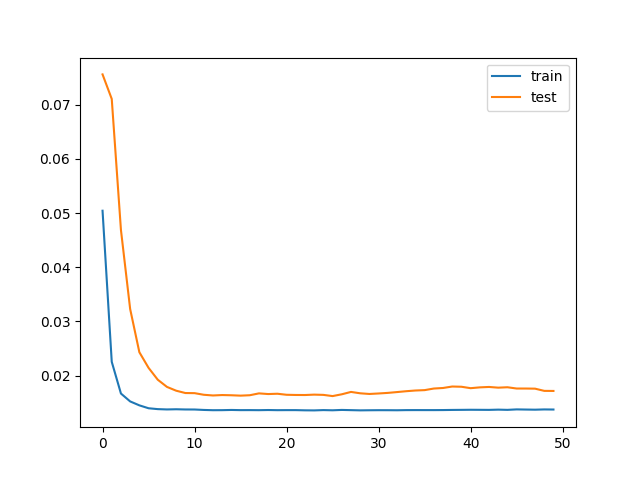
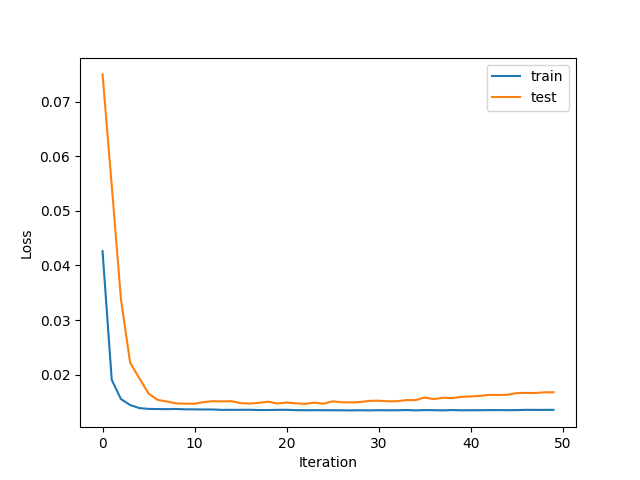
result

diff --git a/code/P3_LSTM_model.py b/code/P3_LSTM_model.py
@@ -9,7 +9,7 @@ from P2_get_data import get_data
 
 epochs = 150
 batch_size = 100
-time_steps = 2
+time_steps = 3
 
 
 def LSTM_train(x_train, y_train, x_test, y_test):
@@ -24,6 +24,8 @@ def LSTM_train(x_train, y_train, x_test, y_test):
     plt.plot(history.history['loss'], label='train')
     plt.plot(history.history['val_loss'], label='test')
     plt.legend()
+    plt.ylabel('Loss')
+    plt.xlabel('Iteration')
     plt.savefig('loss_{}.png'.format(time_steps))
     plt.show()
 
